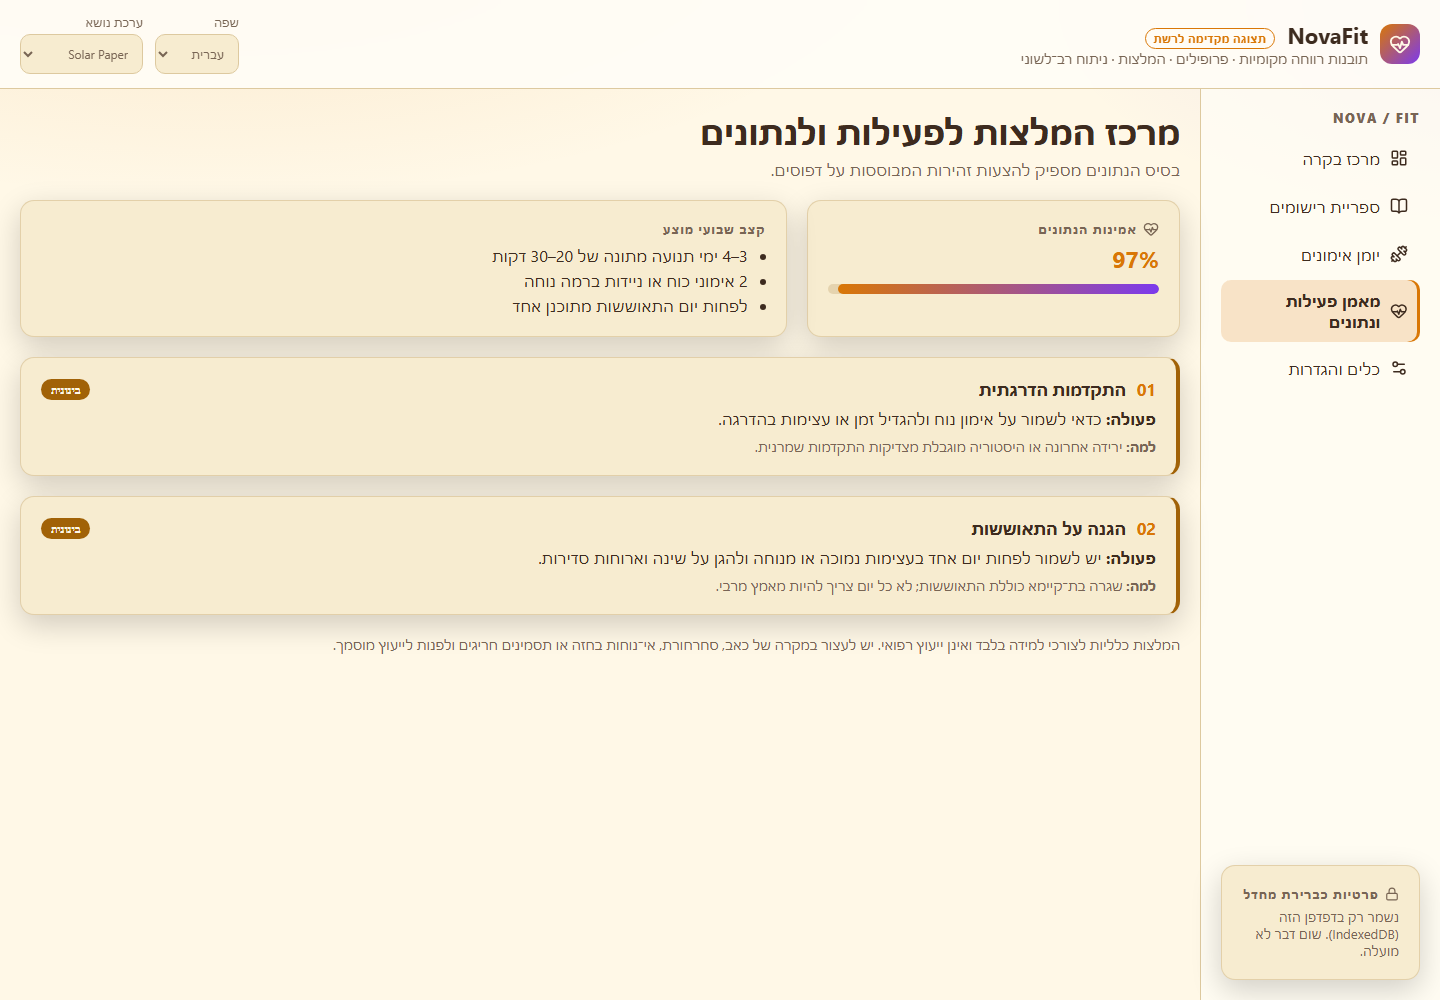
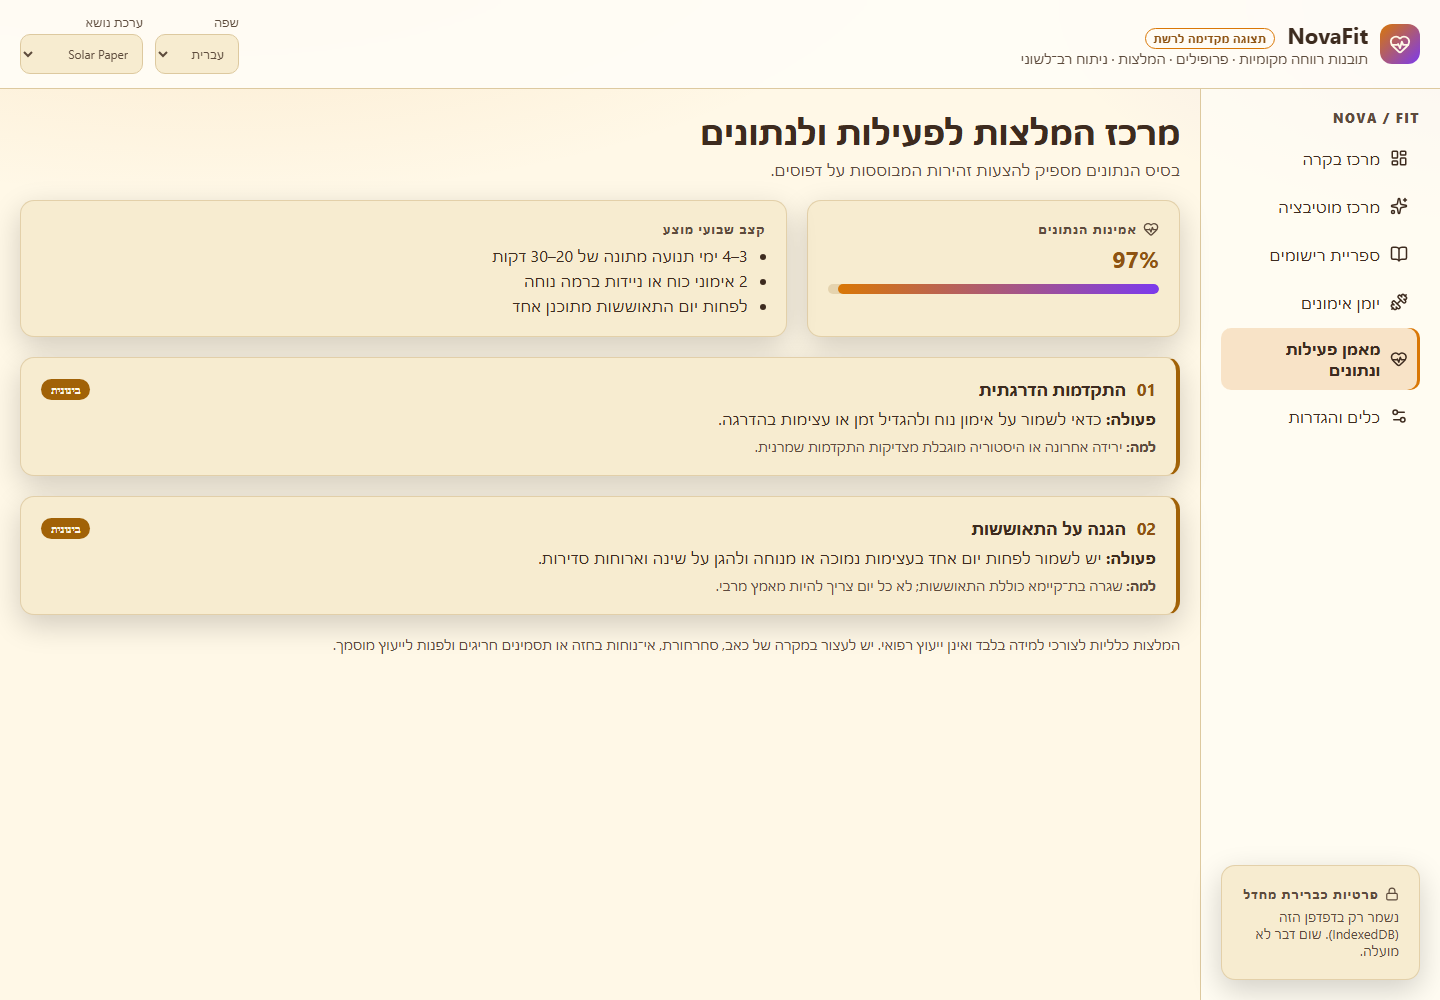
fix(web): reach WCAG AA contrast on the light themes
Light themes (Cloud, Solar Paper) derive darker accent and muted text tokens from the theme itself; unearned badges no longer fade their text. axe WCAG 2.1 A/AA: 0 violations on 6 pages x 3 themes/languages. Screenshots refreshed.

diff --git a/web/src/styles.css b/web/src/styles.css
@@ -11,6 +11,8 @@
   --nf-warning: #facc15;
   --nf-danger: #fb7185;
   --nf-border: #255b58;
+  --nf-accent-text: var(--nf-accent);
+  --nf-muted-text: var(--nf-muted);
   --radius: 14px;
   --space: clamp(12px, 1.6vw, 20px);
   --font: 'Segoe UI', system-ui, -apple-system, 'Noto Sans Hebrew', 'Arial Hebrew', sans-serif;
@@ -37,37 +39,37 @@ button, input, select { font: inherit; color: inherit; }
 .brand__mark { display: grid; place-items: center; inline-size: 40px; block-size: 40px; border-radius: 12px;
   background: linear-gradient(135deg, var(--nf-accent), var(--nf-accent-alt)); color: var(--nf-bg); }
 .brand__name { font-size: 1.35rem; font-weight: 700; letter-spacing: .01em; }
-.brand__tagline { color: var(--nf-muted); font-size: .85rem; }
+.brand__tagline { color: var(--nf-muted-text); font-size: .85rem; }
 .badge { font-size: .7rem; font-weight: 700; padding: 2px 8px; border-radius: 999px; vertical-align: middle;
-  border: 1px solid var(--nf-accent); color: var(--nf-accent); margin-inline-start: 6px; }
+  border: 1px solid var(--nf-accent); color: var(--nf-accent-text); margin-inline-start: 6px; }
 .selectors { display: flex; gap: 12px; flex-wrap: wrap; }
-.selectors label { display: grid; gap: 4px; font-size: .75rem; color: var(--nf-muted); }
+.selectors label { display: grid; gap: 4px; font-size: .75rem; color: var(--nf-muted-text); }
 select, input { background: var(--nf-panel-alt); border: 1px solid var(--nf-border); border-radius: 10px;
   padding: 8px 10px; min-block-size: 40px; }
 
 .workspace { display: grid; grid-template-columns: 240px minmax(0, 1fr); flex: 1; }
 .sidebar { padding: var(--space); border-inline-end: 1px solid var(--nf-border); background: color-mix(in srgb, var(--nf-panel) 70%, transparent);
   display: flex; flex-direction: column; gap: 10px; }
-.sidebar__title { font-weight: 800; letter-spacing: .12em; font-size: .8rem; color: var(--nf-muted); }
+.sidebar__title { font-weight: 800; letter-spacing: .12em; font-size: .8rem; color: var(--nf-muted-text); }
 .sidebar ul { list-style: none; margin: 0; padding: 0; display: grid; gap: 4px; }
 .nav { position: relative; display: flex; gap: 10px; align-items: center; padding: 10px 12px; border-radius: 10px; min-block-size: 44px; }
 .nav--active { background: color-mix(in srgb, var(--nf-accent) 18%, transparent); color: var(--nf-text); font-weight: 650;
   box-shadow: inset 3px 0 0 var(--nf-accent); }
 [dir='rtl'] .nav--active { box-shadow: inset -3px 0 0 var(--nf-accent); }
-.nav--muted { color: var(--nf-muted); opacity: .72; }
-.privacy { margin-block-start: auto; font-size: .82rem; color: var(--nf-muted); display: grid; gap: 6px; }
+.nav--muted { color: var(--nf-muted-text); opacity: .72; }
+.privacy { margin-block-start: auto; font-size: .82rem; color: var(--nf-muted-text); display: grid; gap: 6px; }
 
 .content { padding: var(--space); min-inline-size: 0; }
 .page { display: grid; grid-template-columns: minmax(0, 1fr); gap: var(--space); max-inline-size: 1280px; }
 .page__header h1 { font-size: clamp(1.5rem, 2.6vw, 2.1rem); }
-.page__header p { color: var(--nf-muted); margin-block-start: 6px; }
+.page__header p { color: var(--nf-muted-text); margin-block-start: 6px; }
 
 .card { background: var(--nf-panel-alt); border: 1px solid color-mix(in srgb, var(--nf-border) 80%, transparent);
   border-radius: var(--radius); padding: var(--space); box-shadow: 0 10px 30px rgb(0 0 0 / .18); min-inline-size: 0; }
 .card__title { display: flex; gap: 6px; align-items: center; font-size: .78rem; font-weight: 700; text-transform: uppercase;
-  letter-spacing: .06em; color: var(--nf-muted); }
-.card__value { font-size: 1.45rem; font-weight: 750; color: var(--nf-accent); margin-block: 6px 2px; }
-.card__detail { color: var(--nf-muted); font-size: .85rem; }
+  letter-spacing: .06em; color: var(--nf-muted-text); }
+.card__value { font-size: 1.45rem; font-weight: 750; color: var(--nf-accent-text); margin-block: 6px 2px; }
+.card__detail { color: var(--nf-muted-text); font-size: .85rem; }
 
 .training { display: grid; grid-template-columns: minmax(250px, 320px) minmax(0, 1fr); gap: var(--space); align-items: start; }
 .training__main { display: grid; grid-template-columns: minmax(0, 1fr); gap: var(--space); min-inline-size: 0; }
@@ -76,7 +78,7 @@ select, input { background: var(--nf-panel-alt); border: 1px solid var(--nf-bord
 .meter span { display: block; block-size: 100%; background: linear-gradient(90deg, var(--nf-accent), var(--nf-accent-alt)); border-radius: inherit; }
 
 .form { display: grid; gap: 12px; position: sticky; inset-block-start: 90px; }
-.form label { display: grid; gap: 6px; font-size: .85rem; color: var(--nf-muted); }
+.form label { display: grid; gap: 6px; font-size: .85rem; color: var(--nf-muted-text); }
 .form input[type='range'] { accent-color: var(--nf-accent); padding: 0; background: transparent; border: 0; }
 .form__hint { font-size: .78rem; }
 .form__hint strong { color: var(--nf-text); font-size: 1rem; }
@@ -87,7 +89,7 @@ select, input { background: var(--nf-panel-alt); border: 1px solid var(--nf-bord
   border: 0; font-weight: 700; cursor: pointer; padding: 10px 16px; }
 .button--accent { background: linear-gradient(135deg, var(--nf-accent), color-mix(in srgb, var(--nf-accent) 60%, var(--nf-accent-alt))); color: var(--nf-bg); }
 .icon-button { display: grid; place-items: center; inline-size: 36px; block-size: 36px; border-radius: 10px; border: 1px solid transparent;
-  background: transparent; color: var(--nf-muted); cursor: pointer; }
+  background: transparent; color: var(--nf-muted-text); cursor: pointer; }
 .icon-button:hover { color: var(--nf-danger); border-color: var(--nf-danger); }
 
 .bars { inline-size: 100%; block-size: auto; margin-block-start: 8px; }
@@ -106,8 +108,8 @@ select, input { background: var(--nf-panel-alt); border: 1px solid var(--nf-bord
 table { inline-size: 100%; border-collapse: collapse; font-size: .9rem; }
 th, td { padding: 9px 10px; text-align: start; border-block-end: 1px solid color-mix(in srgb, var(--nf-border) 60%, transparent); }
 td:first-child { white-space: nowrap; }
-th { color: var(--nf-muted); font-size: .75rem; text-transform: uppercase; letter-spacing: .05em; }
-.empty, .scope { color: var(--nf-muted); font-size: .85rem; }
+th { color: var(--nf-muted-text); font-size: .75rem; text-transform: uppercase; letter-spacing: .05em; }
+.empty, .scope { color: var(--nf-muted-text); font-size: .85rem; }
 .button--quiet { background: transparent; border: 1px solid var(--nf-border); color: var(--nf-text); margin-block-start: 10px; }
 
 @media (max-width: 1100px) {
@@ -138,7 +140,7 @@ a.nav:hover { background: color-mix(in srgb, var(--nf-accent) 10%, transparent);
 .hero { display: flex; flex-wrap: wrap; gap: var(--space); align-items: center; justify-content: space-between;
   background: linear-gradient(135deg, color-mix(in srgb, var(--nf-accent) 18%, var(--nf-panel-alt)), color-mix(in srgb, var(--nf-accent-alt) 14%, var(--nf-panel-alt))); }
 .hero__title { font-size: clamp(1.25rem, 2.4vw, 1.8rem); margin-block: 6px; max-inline-size: 46ch; line-height: 1.3; }
-.hero__why { color: var(--nf-muted); }
+.hero__why { color: var(--nf-muted-text); }
 .metrics { display: grid; grid-template-columns: repeat(auto-fit, minmax(150px, 1fr)); gap: var(--space); }
 .chart-grid { display: grid; grid-template-columns: repeat(2, minmax(0, 1fr)); gap: var(--space); }
 .chart { inline-size: 100%; block-size: auto; margin-block-start: 8px; }
@@ -156,12 +158,12 @@ a.nav:hover { background: color-mix(in srgb, var(--nf-accent) 10%, transparent);
 .map__cell--one { fill: color-mix(in srgb, var(--nf-accent) 55%, var(--nf-panel-alt)); background: color-mix(in srgb, var(--nf-accent) 55%, var(--nf-panel-alt)); }
 .map__cell--tracked { fill: color-mix(in srgb, var(--nf-accent-alt) 35%, var(--nf-panel-alt)); background: color-mix(in srgb, var(--nf-accent-alt) 35%, var(--nf-panel-alt)); }
 .map__cell--none { fill: color-mix(in srgb, var(--nf-border) 60%, transparent); background: color-mix(in srgb, var(--nf-border) 60%, transparent); }
-.legend { display: flex; flex-wrap: wrap; align-items: center; gap: 6px; color: var(--nf-muted); font-size: .8rem; margin-block-start: 8px; }
+.legend { display: flex; flex-wrap: wrap; align-items: center; gap: 6px; color: var(--nf-muted-text); font-size: .8rem; margin-block-start: 8px; }
 .legend__swatch { display: inline-block; inline-size: 14px; block-size: 14px; border-radius: 4px; }
 .insights { display: grid; gap: 8px; color: var(--nf-text); }
 .form__row { display: flex; flex-wrap: wrap; gap: 10px; }
 .moods { border: 0; padding: 0; margin: 0; display: flex; flex-wrap: wrap; gap: 8px; }
-.moods legend { font-size: .85rem; color: var(--nf-muted); margin-block-end: 6px; }
+.moods legend { font-size: .85rem; color: var(--nf-muted-text); margin-block-end: 6px; }
 .chip { display: inline-flex; align-items: center; min-block-size: 36px; padding: 6px 12px; border-radius: 999px; cursor: pointer;
   border: 1px solid var(--nf-border); color: var(--nf-text); font-size: .85rem; }
 .chip input { position: absolute; opacity: 0; inline-size: 1px; block-size: 1px; }
@@ -180,7 +182,7 @@ a.nav:hover { background: color-mix(in srgb, var(--nf-accent) 10%, transparent);
 .recommendation--low { border-inline-start-color: var(--nf-accent); }
 .recommendation__head { display: flex; gap: 10px; align-items: center; justify-content: space-between; }
 .recommendation__head h2 { font-size: 1.05rem; }
-.recommendation__index { color: var(--nf-accent); margin-inline-end: 6px; }
+.recommendation__index { color: var(--nf-accent-text); margin-inline-end: 6px; }
 .pill { font-size: .72rem; font-weight: 800; padding: 3px 10px; border-radius: 999px; text-transform: uppercase; color: var(--nf-bg); }
 .pill--high { background: var(--nf-danger); }
 .pill--medium { background: var(--nf-warning); }
@@ -197,8 +199,9 @@ a.nav:hover { background: color-mix(in srgb, var(--nf-accent) 10%, transparent);
 .spark { font-size: 1rem; line-height: 1.45; margin-block: 6px 10px; }
 .hero--level-3 { box-shadow: 0 0 0 2px var(--nf-accent), 0 10px 30px rgb(0 0 0 / .18); }
 .badges { list-style: none; margin: 10px 0 0; padding: 0; display: grid; grid-template-columns: repeat(auto-fit, minmax(240px, 1fr)); gap: 12px; }
-.badge-card { display: flex; gap: 12px; padding: 12px; border-radius: 12px; border: 1px dashed var(--nf-border); opacity: .78; }
-.badge-card--earned { border-style: solid; border-color: var(--nf-accent); opacity: 1; background: color-mix(in srgb, var(--nf-accent) 10%, transparent); }
+.badge-card { display: flex; gap: 12px; padding: 12px; border-radius: 12px; border: 1px dashed var(--nf-border); }
+.badge-card:not(.badge-card--earned) .badge-card__icon { filter: grayscale(1); opacity: .55; }
+.badge-card--earned { border-style: solid; border-color: var(--nf-accent); background: color-mix(in srgb, var(--nf-accent) 10%, transparent); }
 .badge-card__icon { font-size: 1.6rem; line-height: 1; }
 .badge-card__title { font-weight: 700; }
 @media (prefers-reduced-motion: no-preference) {

diff --git a/web/src/theme.ts b/web/src/theme.ts
@@ -9,6 +9,11 @@ export const DEFAULT_THEME: ThemeId = 'aurora';
 export function applyTheme(themeId: string, root: HTMLElement = document.documentElement): void {
   const theme = THEMES[themeId] ?? THEMES[DEFAULT_THEME];
   for (const [token, value] of Object.entries(theme.ui)) root.style.setProperty(`--nf-${token.replace(/_/g, '-')}`, value);
+  // Text that sits on panels needs WCAG AA contrast. Bright accents read well on dark themes, but on the light
+  // themes (Cloud, Solar Paper) they are darkened toward the text colour; muted copy is strengthened the same way.
+  const light = theme.mode === 'light';
+  root.style.setProperty('--nf-accent-text', light ? `color-mix(in srgb, ${theme.ui.accent} 52%, ${theme.ui.text})` : theme.ui.accent);
+  root.style.setProperty('--nf-muted-text', light ? `color-mix(in srgb, ${theme.ui.muted} 55%, ${theme.ui.text})` : theme.ui.muted);
   root.dataset.theme = themeId in THEMES ? themeId : DEFAULT_THEME;
   root.style.colorScheme = theme.mode;
 }
